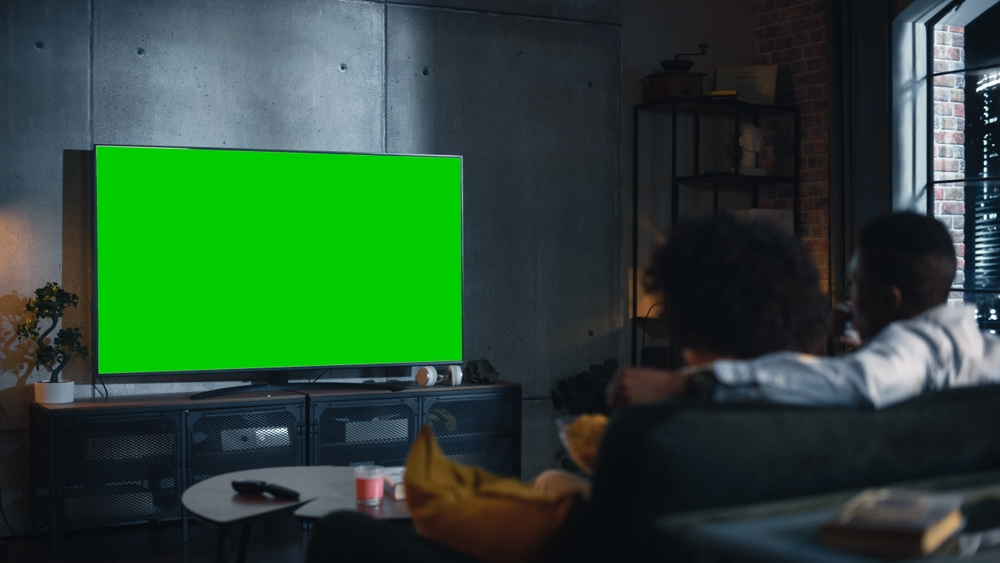
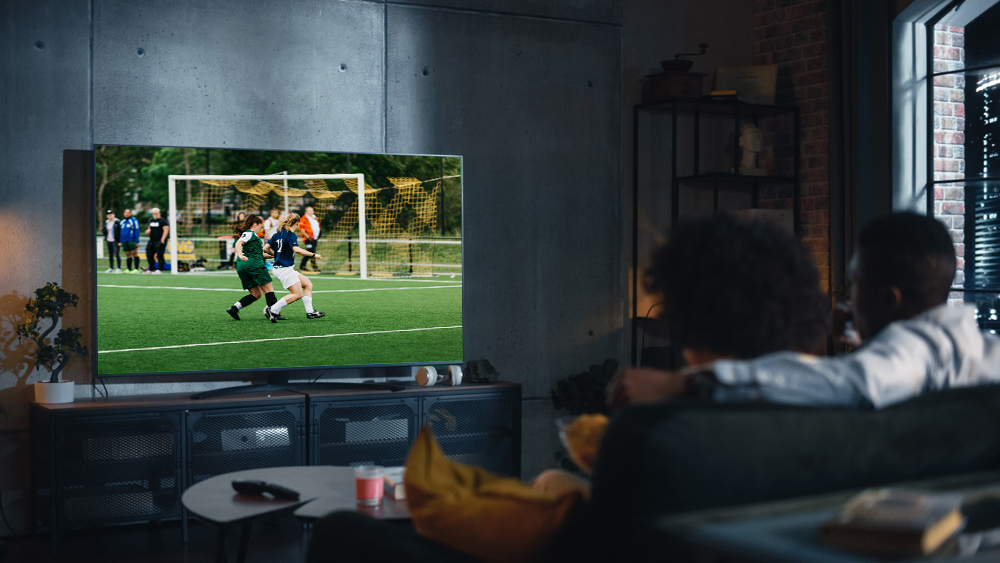
Dashboard UI Updated v2.0

Changed region(s): [[0.093, 0.2416, 0.465, 0.6643]]

diff --git a/resources/views/admin/dashboard.blade.php b/resources/views/admin/dashboard.blade.php
@@ -29,23 +29,20 @@
     </div>
 </div>
 
-<!-- Monthly Sales -->
-<div class="mt-6 bg-white border rounded-xl p-6">
-    <div class="flex items-center justify-between">
-        <div>
-            <div class="text-sm font-semibold">Monthly Sales</div>
+<div class="grid grid-cols-1 lg:grid-cols-2 gap-6">
+    <!-- Monthly Sales -->
+    <div class="mt-6 bg-white border rounded-xl p-6">
+        <div class="flex items-center justify-between">
+            <div>
+                <div class="text-sm font-semibold">Monthly Sales</div>
+            </div>
+            <button class="text-gray-400"><i class="bi bi-three-dots"></i></button>
         </div>
-        <button class="text-gray-400"><i class="bi bi-three-dots"></i></button>
+        <div class="mt-4">
+            <canvas id="monthlySalesChart" ></canvas>
+        </div>
     </div>
-    <div class="mt-4">
-        <canvas id="monthlySalesChart" height="100"></canvas>
-    </div>
-</div>
-
-<!-- Demographics + Recent Orders -->
-<div class="mt-6 grid grid-cols-1 lg:grid-cols-2 gap-6">
-    <!-- Customers Demographic -->
-    <div class=" bg-white border rounded-xl p-6">
+    <div class="mt-6 bg-white border rounded-xl p-6">
         <div class="flex items-center justify-between mb-4">
             <div class="text-sm font-semibold">Customers Demographic</div>
             <button class="text-gray-400"><i class="bi bi-three-dots"></i></button>
@@ -54,8 +51,8 @@
 
         <!-- Leaflet CSS -->
         <link rel="stylesheet" href="https://unpkg.com/leaflet@1.9.4/dist/leaflet.css"
-              integrity="sha256-p4NxAoJBhIIN+hmNHrzRCf9tD/miZyoHS5obTRR9BMY="
-              crossorigin=""/>
+                integrity="sha256-p4NxAoJBhIIN+hmNHrzRCf9tD/miZyoHS5obTRR9BMY="
+                crossorigin=""/>
 
         <!-- Interactive OpenStreetMap -->
         <div id="customerMap" class="h-48 bg-gray-50 rounded border relative overflow-hidden"></div>
@@ -105,7 +102,7 @@
                     </div>
                     <div class="w-full h-2 bg-gray-100 rounded">
                         <div class="h-2 {{ $colors[$i % count($colors)] }} rounded transition-all duration-500"
-                             style="width:{{ max(0, min(100, $g['percent'])) }}%"></div>
+                                style="width:{{ max(0, min(100, $g['percent'])) }}%"></div>
                     </div>
                 @endforeach
             @else
@@ -118,6 +115,12 @@
             @endif
         </div>
     </div>
+</div>
+
+<!-- Demographics + Recent Orders -->
+<div class="mt-6 grid grid-cols-1 lg:grid-cols-2 gap-6">
+    <!-- Customers Demographic -->
+
 
     <!-- Recently Added Products -->
     <div class="card border-0">
@@ -210,8 +213,6 @@ document.addEventListener('DOMContentLoaded', () => {
         map.zoomControl.setPosition('bottomright');
     }
 
-    // Removed gauge chart as per new KPI requirements
-
     // Monthly Sales Bar
     const salesEl = document.getElementById('monthlySalesChart');
     if (salesEl) {
@@ -225,7 +226,8 @@ document.addEventListener('DOMContentLoaded', () => {
                     label: 'Sales',
                     data,
                     backgroundColor: '#4F46E5',
-                    borderRadius: 6,
+                    borderRadius: 3,
+                    barPercentage: 0.7,
                 }]
             },
             options: {

diff --git a/app/Http/Controllers/Admin/ProductController.php b/app/Http/Controllers/Admin/ProductController.php
@@ -25,6 +25,7 @@ class ProductController extends Controller
     {
         $data = $request->validate([
             'name' => ['required','string','max:255'],
+            'product_short' => ['nullable','string','max:255'],
             'slug' => ['nullable','string','max:255'],
             'serial' => ['required','string','max:255','unique:products,serial'],
             'category_id' => ['required','exists:categories,id'],
@@ -121,6 +122,17 @@ class ProductController extends Controller
         }
         $finalSlug = $slug;
 
+        // Auto-generate product_short from product name (text before first dash) if not manually provided
+        $productShort = $data['product_short'] ?? null;
+        if (empty($productShort)) {
+            $productShort = $data['name'];
+            if (strpos($data['name'], '–') !== false) {
+                $productShort = trim(explode('–', $data['name'])[0]);
+            } elseif (strpos($data['name'], '-') !== false) {
+                $productShort = trim(explode('-', $data['name'])[0]);
+            }
+        }
+
         $product = Product::create([
             'name' => $data['name'],
             'slug' => $finalSlug,
@@ -128,6 +140,7 @@ class ProductController extends Controller
             'category_id' => $data['category_id'],
             'price' => $data['price'] ?? null,
             'description' => $data['description'] ?? null,
+            'product_short' => $productShort,
             'image' => $mainImagePath,
             'product_images' => count($productImages) ? $productImages : null,
             'product_galleries' => count($galleriesMap) ? $galleriesMap : null,
@@ -153,6 +166,7 @@ class ProductController extends Controller
     {
         $data = $request->validate([
             'name' => ['required','string','max:255'],
+            'product_short' => ['nullable','string','max:255'],
             'slug' => ['nullable','string','max:255','unique:products,slug,'.$product->id],
             'serial' => ['required','string','max:255','unique:products,serial,'.$product->id],
             'category_id' => ['required','exists:categories,id'],
@@ -304,6 +318,14 @@ class ProductController extends Controller
             $finalSlug = $slug;
         }
 
+        // Auto-generate product_short from product name (text before first dash)
+        $productShort = $data['name'];
+        if (strpos($data['name'], '–') !== false) {
+            $productShort = trim(explode('–', $data['name'])[0]);
+        } elseif (strpos($data['name'], '-') !== false) {
+            $productShort = trim(explode('-', $data['name'])[0]);
+        }
+
         $product->update([
             'name' => $data['name'],
             'slug' => $finalSlug,
@@ -311,6 +333,7 @@ class ProductController extends Controller
             'category_id' => $data['category_id'],
             'price' => $data['price'] ?? $product->price,
             'description' => $data['description'] ?? null,
+            'product_short' => $productShort,
             'image' => $data['image'] ?? $product->image,
             'product_images' => $data['product_images'] ?? $product->product_images,
             'product_galleries' => $data['product_galleries'] ?? $product->product_galleries,

diff --git a/resources/views/admin/products/create.blade.php b/resources/views/admin/products/create.blade.php
@@ -7,8 +7,14 @@
     @csrf
     <div>
         <label class="block text-sm">Name</label>
-        <input name="name" type="text" value="{{ old('name') }}" class="form-control mt-1 w-full" required />
+        <input name="name" type="text" value="{{ old('name') }}" class="form-control mt-1 w-full" required id="product-name-input" />
         @error('name')<p class="text-sm text-red-600">{{ $message }}</p>@enderror
+    </div>
+    <div>
+        <label class="block text-sm">Product Short</label>
+        <input name="product_short" type="text" value="{{ old('product_short') }}" class="form-control mt-1 w-full" id="product-short-input" />
+        <p class="text-xs text-gray-500 mt-1">Auto-generated from product name (text before first dash). You can override this manually.</p>
+        @error('product_short')<p class="text-sm text-red-600">{{ $message }}</p>@enderror
     </div>
     <div class="grid grid-cols-1 md:grid-cols-2 gap-4">
         <div>
@@ -403,6 +409,36 @@ document.addEventListener('DOMContentLoaded', () => {
         nameInput.addEventListener('change', updateSlugPreview);
         // Initialize on load if not manual
         updateSlugPreview();
+    }
+
+    // Auto-generate product_short from product name
+    const productShortInput = document.getElementById('product-short-input');
+    function generateProductShort(name) {
+        if (!name) return '';
+        // Check for em dash first, then regular dash
+        if (name.includes('–')) {
+            return name.split('–')[0].trim();
+        } else if (name.includes('-')) {
+            return name.split('-')[0].trim();
+        }
+        return name;
+    }
+    function updateProductShort() {
+        if (!productShortInput || !nameInput) return;
+        // Only auto-generate if the field is empty or hasn't been manually edited
+        if (productShortInput.value === '' || !productShortInput.dataset.manuallyEdited) {
+            productShortInput.value = generateProductShort(nameInput.value);
+        }
+    }
+    if (nameInput && productShortInput) {
+        nameInput.addEventListener('input', updateProductShort);
+        nameInput.addEventListener('change', updateProductShort);
+        // Mark as manually edited when user types in product_short field
+        productShortInput.addEventListener('input', function() {
+            productShortInput.dataset.manuallyEdited = 'true';
+        });
+        // Initialize on load
+        updateProductShort();
     }
 });
 </script>

diff --git a/resources/views/admin/products/edit.blade.php b/resources/views/admin/products/edit.blade.php
@@ -12,6 +12,12 @@
         @error('name')<p class="text-sm text-red-600">{{ $message }}</p>@enderror
     </div>
     <div>
+        <label class="block text-sm">Product Short</label>
+        <input name="product_short" type="text" value="{{ old('product_short', $product->product_short) }}" class="form-control mt-1 w-full" id="product-short-input" />
+        <p class="text-xs text-gray-500 mt-1">Auto-generated from product name (text before first "-" or "–"). You can override this manually.</p>
+        @error('product_short')<p class="text-sm text-red-600">{{ $message }}</p>@enderror
+    </div>
+    <div>
         <label class="block text-sm">Price</label>
         <input name="price" type="number" step="0.01" min="0" value="{{ old('price', $product->price) }}" class="form-control mt-1 w-full" />
         @error('price')<p class="text-sm text-red-600">{{ $message }}</p>@enderror
@@ -485,6 +491,36 @@ document.addEventListener('DOMContentLoaded', () => {
         nameInput.addEventListener('change', updateSlugPreview);
         // Initialize on load
         updateSlugPreview();
+    }
+
+    // Auto-generate product_short from product name
+    const productShortInput = document.getElementById('product-short-input');
+    function generateProductShort(name) {
+        if (!name) return '';
+        // Check for em dash first, then regular dash
+        if (name.includes('–')) {
+            return name.split('–')[0].trim();
+        } else if (name.includes('-')) {
+            return name.split('-')[0].trim();
+        }
+        return name;
+    }
+    function updateProductShort() {
+        if (!productShortInput || !nameInput) return;
+        // Only auto-generate if the field is empty or hasn't been manually edited
+        if (productShortInput.value === '' || !productShortInput.dataset.manuallyEdited) {
+            productShortInput.value = generateProductShort(nameInput.value);
+        }
+    }
+    if (nameInput && productShortInput) {
+        nameInput.addEventListener('input', updateProductShort);
+        nameInput.addEventListener('change', updateProductShort);
+        // Mark as manually edited when user types in product_short field
+        productShortInput.addEventListener('input', function() {
+            productShortInput.dataset.manuallyEdited = 'true';
+        });
+        // Initialize on load
+        updateProductShort();
     }
 });
 </script>

diff --git a/resources/views/shopping/sections/most-shopped.blade.php b/resources/views/shopping/sections/most-shopped.blade.php
@@ -22,6 +22,15 @@
                         $decoded = json_decode($product->product_images ?? '[]', true);
                         $images = is_array($decoded) ? $decoded : [];
                     }
+                    // Ensure the admin-defined main image is the first displayed image
+                    $images = collect([$product->image])
+                        ->merge($images)
+                        ->filter(function ($img) {
+                            return !empty($img);
+                        })
+                        ->unique()
+                        ->values()
+                        ->toArray();
                 @endphp
                 <div class="bg-white mx-2 rounded-2xl p-5 flex flex-col justify-between hover:shadow-lg transition duration-300">
                     <div>
